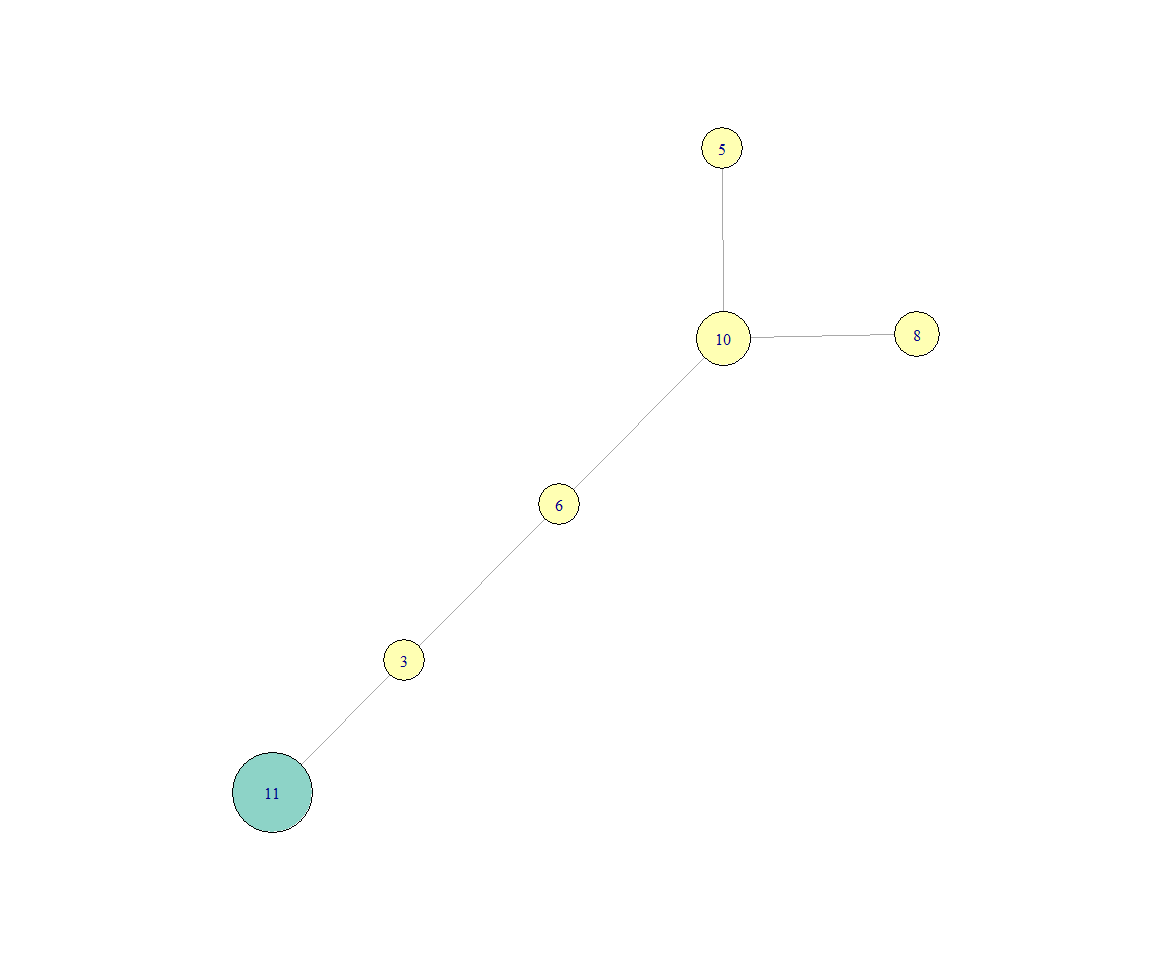
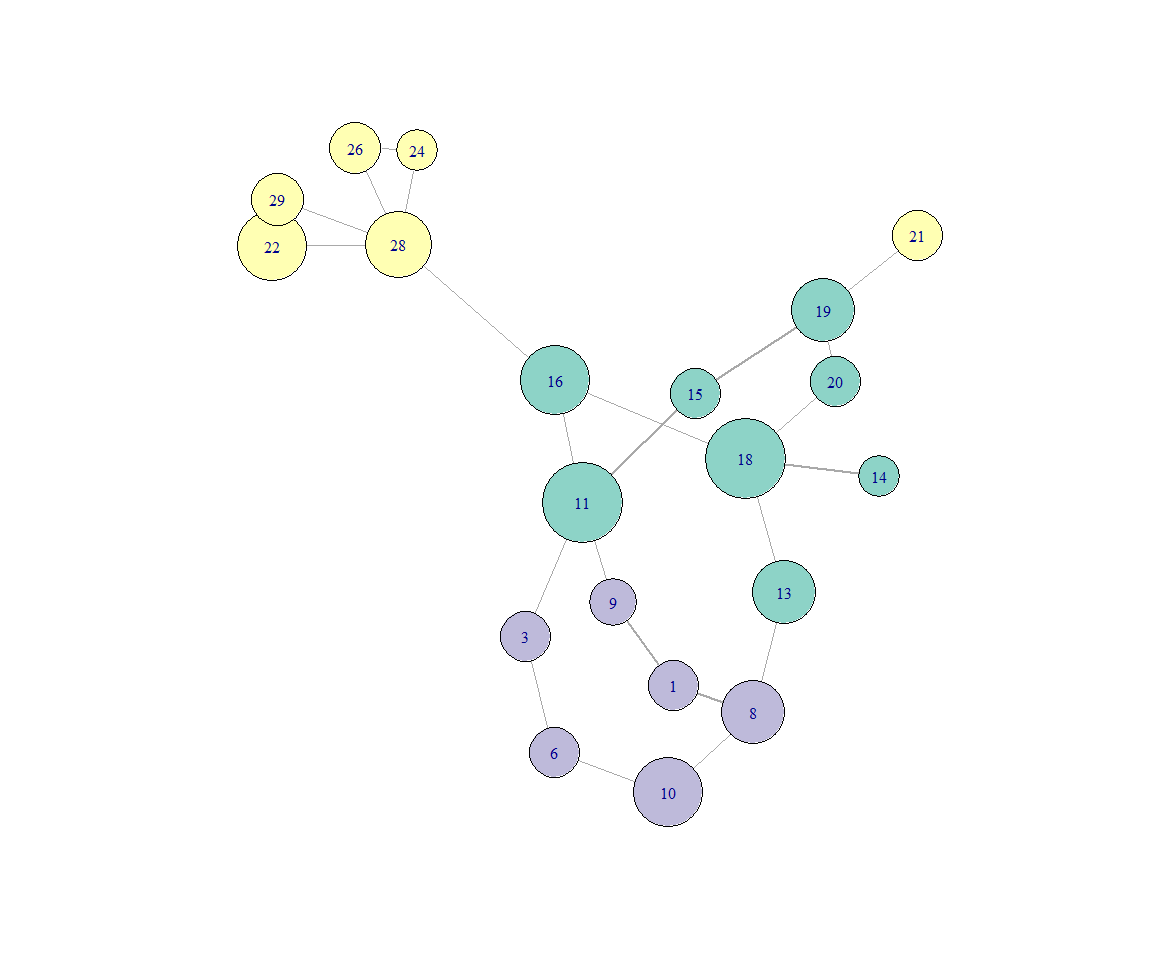
update readme

diff --git a/README.md b/README.md
@@ -70,7 +70,7 @@ plot_graph(example_graph,
 ### Plot friends\_friends
 
 ``` r
-plot_graph(friends_friends(example_graph, 6, 2),
+plot_graph(friends_friends(example_graph, 11, 3),
            edge_width_by = "edge_count", 
            vertex_color_by = "department",
            vertex_size_by = "ideation")
